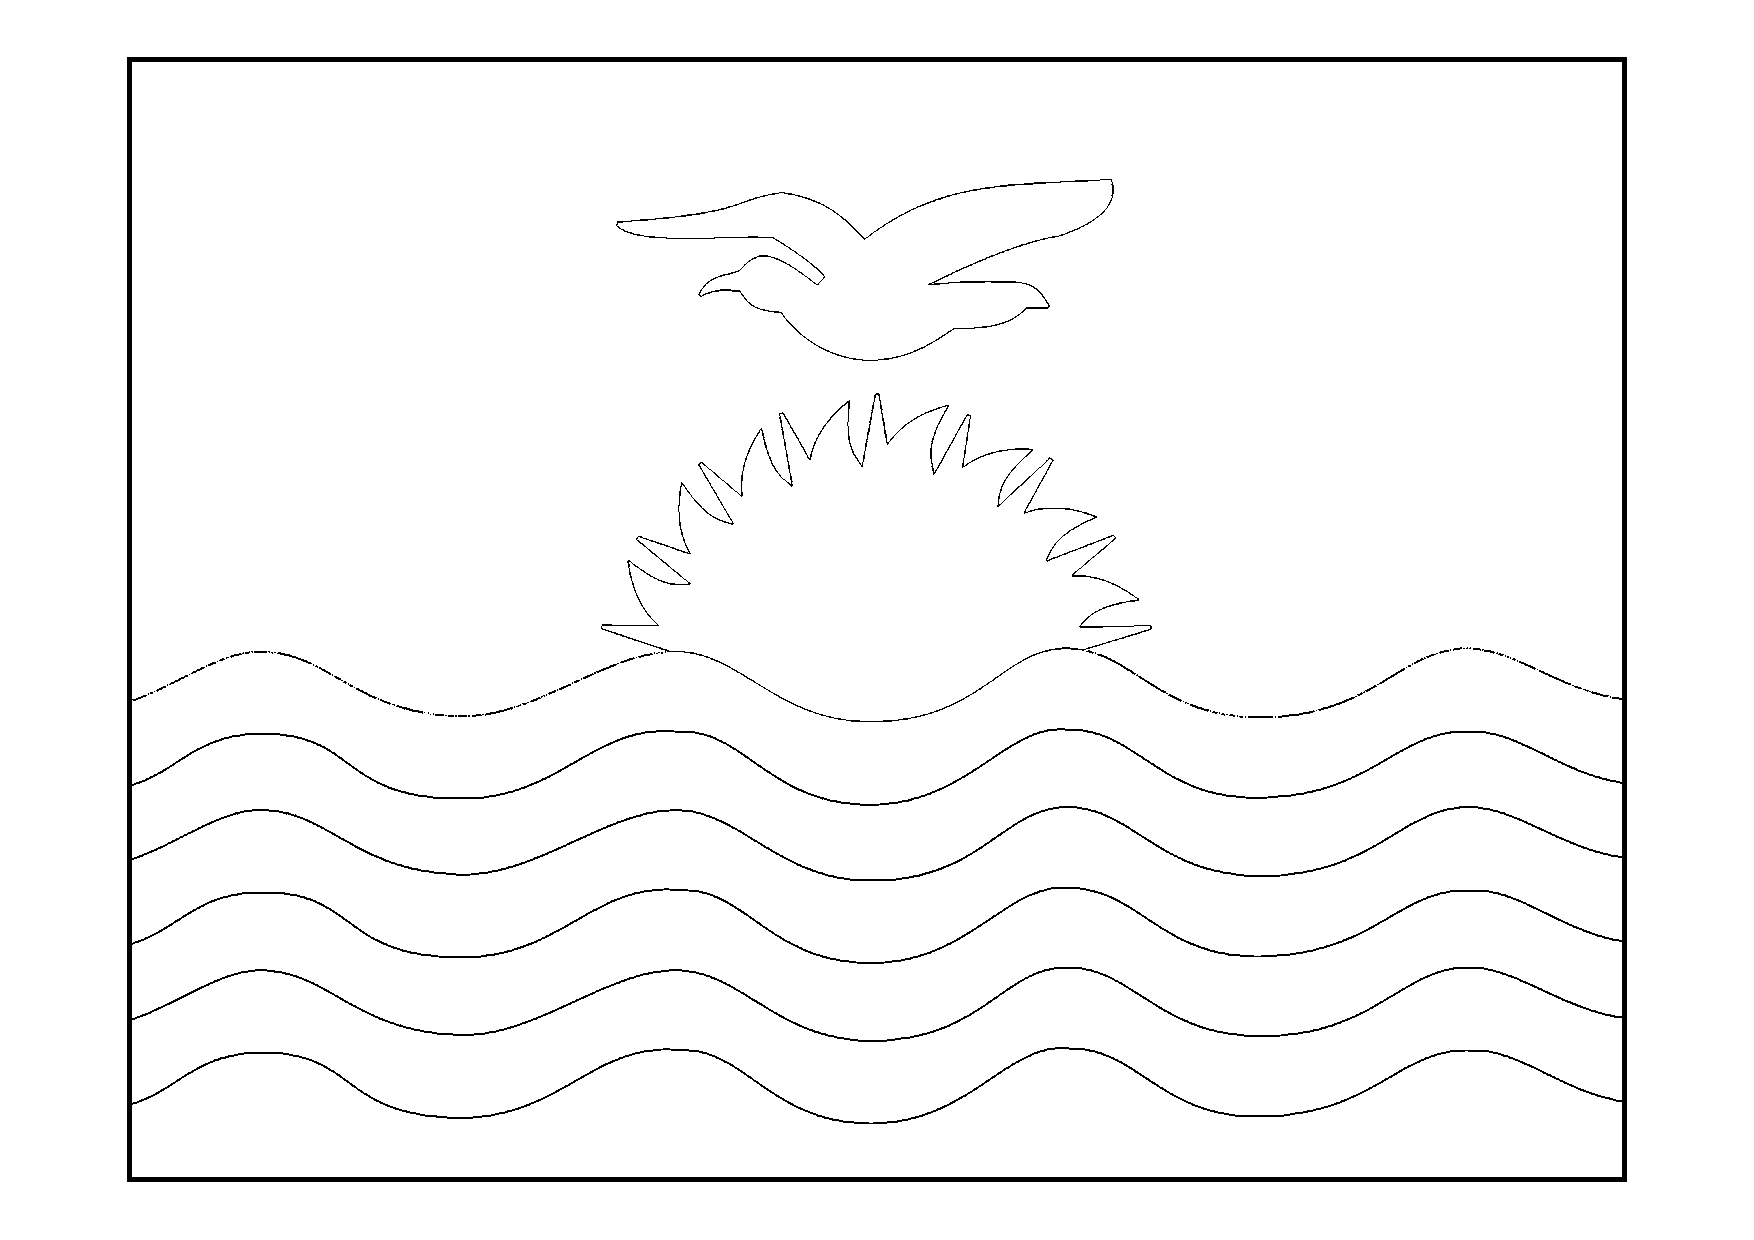
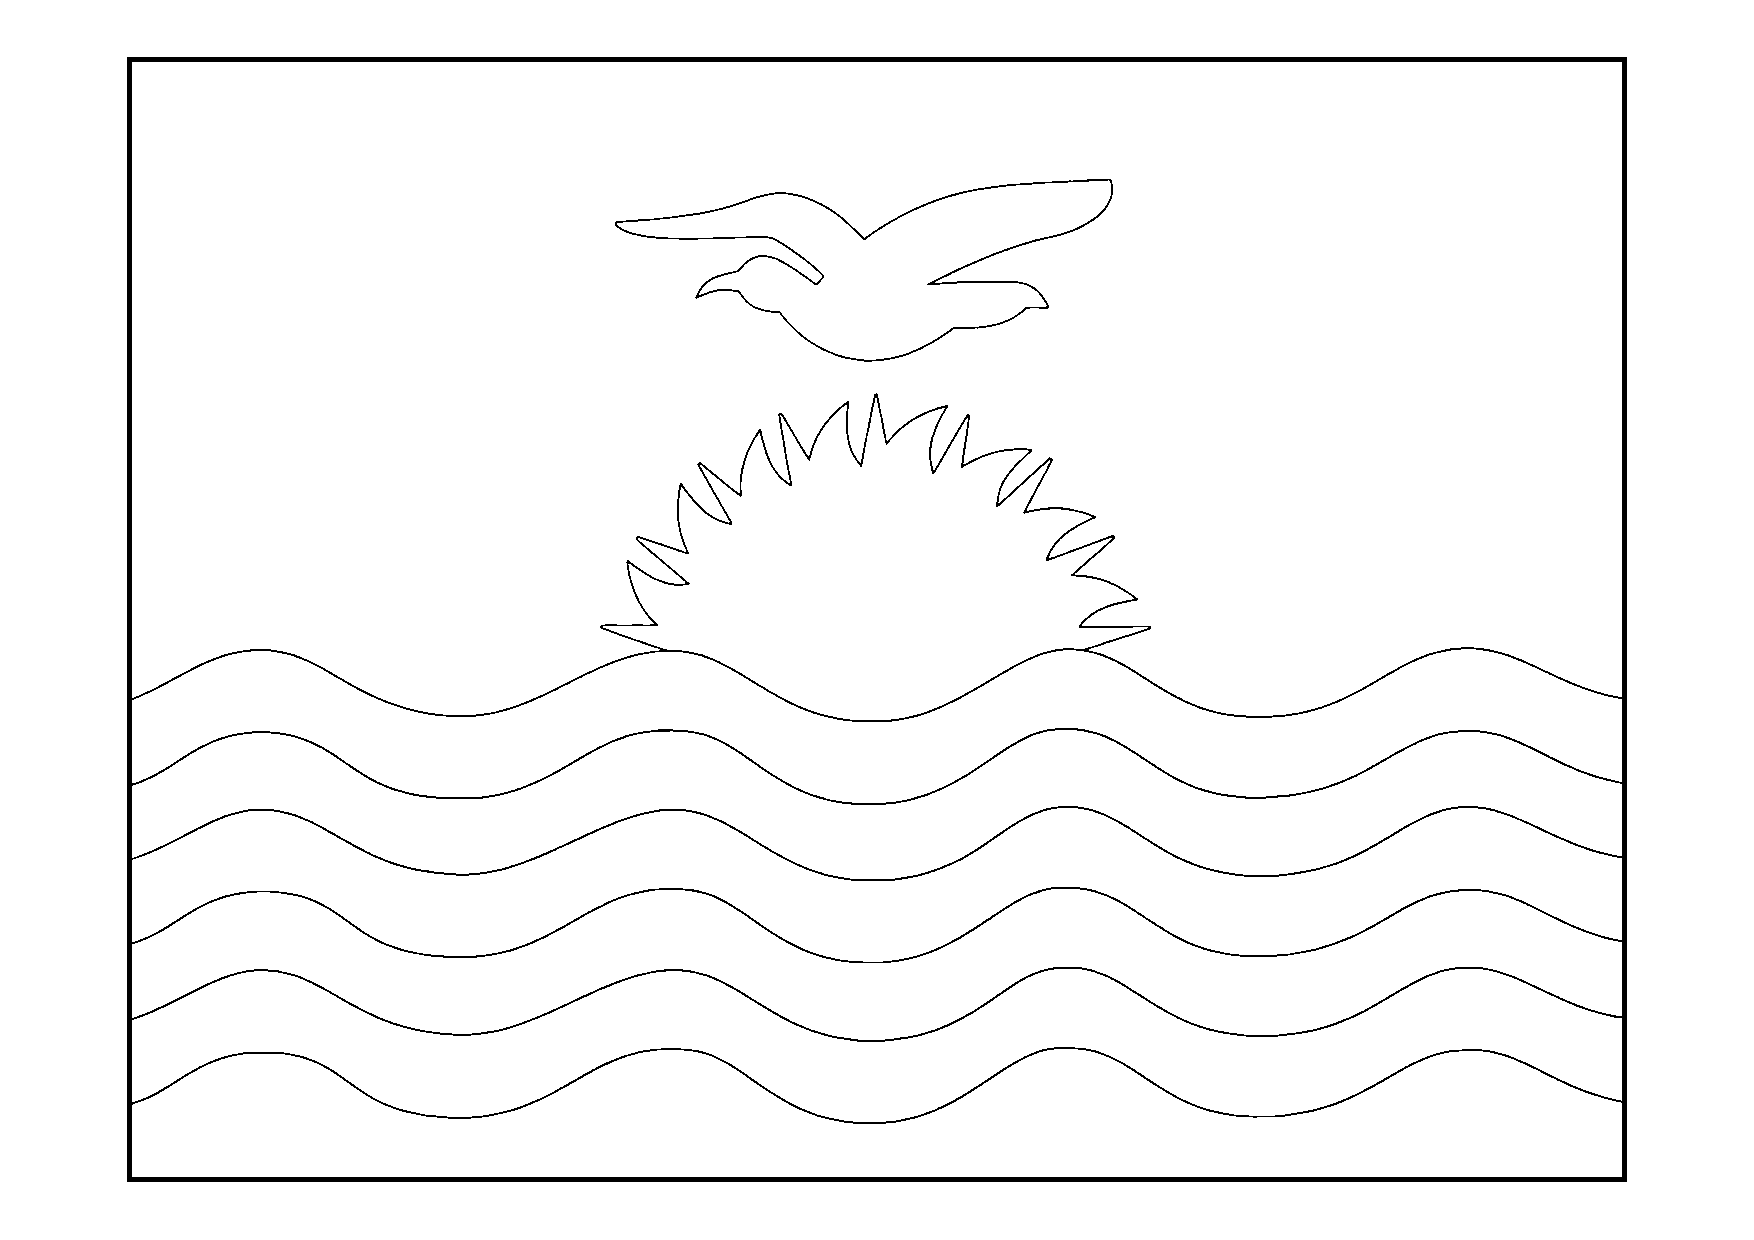
キリバスの線画を途切れのないものに差し替え、合格ラインを標準に戻す

Changed region(s): [[0.431, 0.3371, 0.4618, 0.3677], [0.4002, 0.3677, 0.431, 0.3984], [0.3387, 0.521, 0.3694, 0.5516]]

diff --git a/src/illustrations/flagQuizData.ts b/src/illustrations/flagQuizData.ts
@@ -55,7 +55,7 @@ export const FLAG_QUIZ_DATA: Record<string, FlagQuizData> = {
   'flag-049': { passingScore: 88, swatches: [{ name: '白', hex: '#ffffff' }, { name: '青', hex: '#0d5eaf' }, { name: '水色', hex: '#5bc8f2' }, { name: 'ピンク', hex: '#ff7ab8' }, { name: 'オレンジ', hex: '#ff883e' }] },
   'flag-050': { passingScore: 88, swatches: [{ name: '白', hex: '#ffffff' }, { name: 'オレンジ', hex: '#d47600' }, { name: '黄緑', hex: '#435125' }, { name: 'ピンク', hex: '#ff7ab8' }, { name: '水色', hex: '#5bc8f2' }] },
   'flag-051': { passingScore: 88, swatches: [{ name: '白', hex: '#ffffff' }, { name: '青', hex: '#01349e' }, { name: '赤', hex: '#d7192d' }, { name: '水色', hex: '#5bc8f2' }, { name: '紫', hex: '#af52de' }] },
-  'flag-052': { passingScore: 85, swatches: [{ name: '白', hex: '#ffffff' }, { name: '赤', hex: '#e73e2d' }, { name: '紺', hex: '#005989' }, { name: '黄', hex: '#fec74a' }, { name: 'ピンク', hex: '#ff7ab8' }, { name: '青', hex: '#29a2de' }] },
+  'flag-052': { passingScore: 88, swatches: [{ name: '白', hex: '#ffffff' }, { name: '赤', hex: '#e73e2d' }, { name: '紺', hex: '#005989' }, { name: '黄', hex: '#fec74a' }, { name: 'ピンク', hex: '#ff7ab8' }, { name: '青', hex: '#29a2de' }] },
   'flag-053': { passingScore: 88, swatches: [{ name: '白', hex: '#ffffff' }, { name: '赤', hex: '#ff0000' }, { name: '黄', hex: '#ffff00' }, { name: '青', hex: '#29a2de' }, { name: 'ピンク', hex: '#ff7ab8' }] },
   'flag-054': { passingScore: 88, swatches: [{ name: '白', hex: '#ffffff' }, { name: '青', hex: '#4997d0' }, { name: '黄', hex: '#f9f0aa' }, { name: '緑', hex: '#448127' }, { name: '茶色', hex: '#6c301e' }, { name: '灰色', hex: '#b2b6ba' }, { name: '黄2', hex: '#fab81c' }, { name: '黄3', hex: '#d5b759' }, { name: '紫', hex: '#af52de' }, { name: 'ピンク', hex: '#ff7ab8' }] },
   'flag-055': { passingScore: 88, swatches: [{ name: '白', hex: '#ffffff' }, { name: '赤', hex: '#d6182d' }, { name: '黄', hex: '#fbd718' }, { name: '緑', hex: '#0e8b55' }, { name: 'ピンク', hex: '#ff7ab8' }, { name: '紫', hex: '#af52de' }] },
